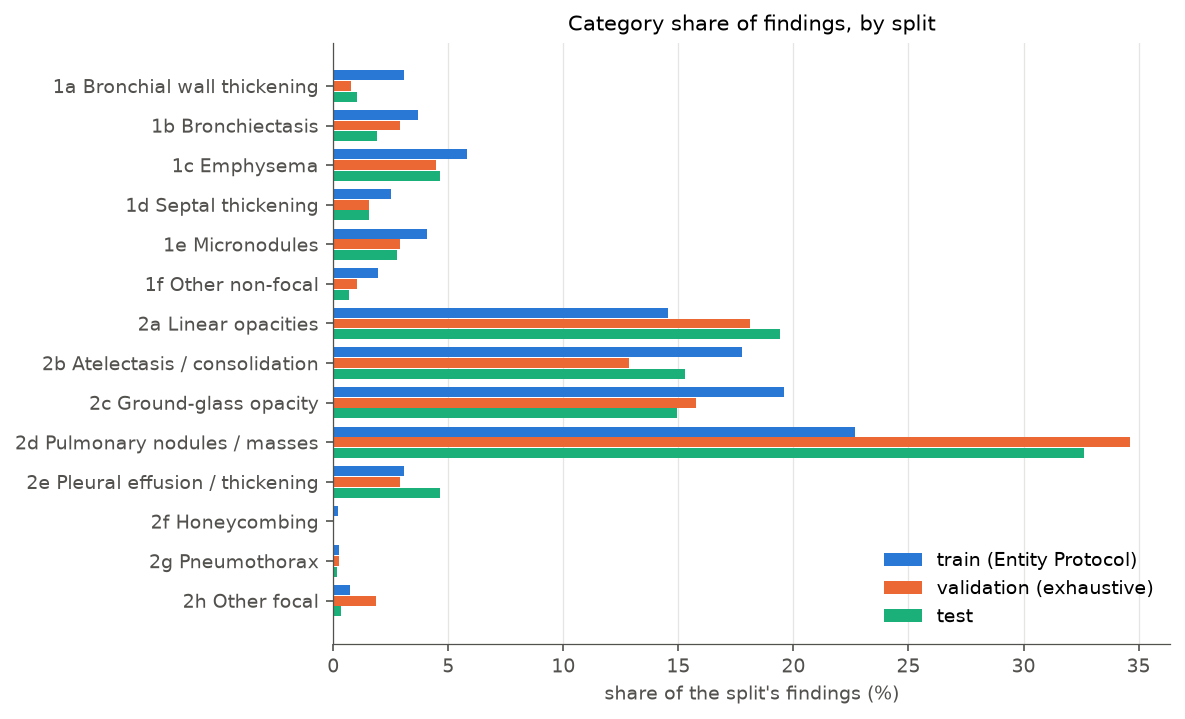
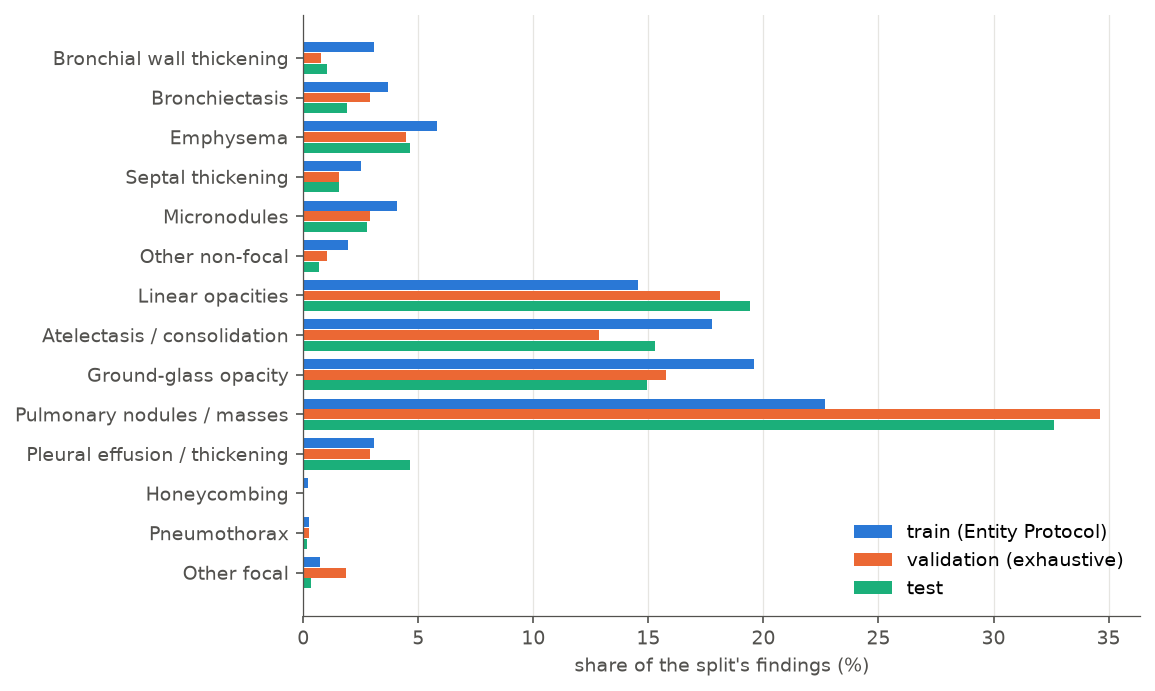
Figures: pathologies named, never coded; no titles baked into images
Report rule 1 (docs/report/RULES.md in the training repository): tables and figure
panels refer to pathologies by name; the category code is never shown alone. Report
rule 10: the picture carries only a legend and panel labels, explanations live in the
caption, so the figure-level titles are removed. Panel titles use a short-name map
(CAT_SHORT) so fourteen panels fit across a text-width figure.

diff --git a/profiling/analyze.py b/profiling/analyze.py
@@ -47,7 +47,11 @@ SPLIT_LABEL = {"train": "train (Entity Protocol)", "val": "validation (exhaustiv
 INK, INK2, GRID = "#0b0b0b", "#52514e", "#e6e5e1"
 BLUE_RAMP = ["#cde2fb", "#9ec5f4", "#6da7ec", "#3987e5", "#256abf", "#184f95", "#0d366b"]
 CATS = list(CATEGORY_MAP)                                           # 1a..2h, fixed order everywhere
-CAT_LABEL = {c: f"{c} {CATEGORY_MAP[c]}" for c in CATS}
+CAT_LABEL = {c: CATEGORY_MAP[c] for c in CATS}                    # report rule 1: pathologies by name, never by code
+CAT_SHORT = {"1a": "Bronchial wall thick.", "1b": "Bronchiectasis", "1c": "Emphysema", "1d": "Septal thickening",
+             "1e": "Micronodules", "1f": "Other non-focal", "2a": "Linear opacities", "2b": "Atelectasis / consol.",
+             "2c": "Ground-glass", "2d": "Nodules / masses", "2e": "Pleural effusion", "2f": "Honeycombing",
+             "2g": "Pneumothorax", "2h": "Other focal"}                # panel titles
 
 plt.rcParams.update({"font.family": "DejaVu Sans", "font.size": 9, "axes.edgecolor": INK2, "axes.linewidth": 0.6,
                      "axes.titlesize": 10, "axes.titleweight": "normal", "axes.labelcolor": INK2, "xtick.color": INK2,
@@ -138,7 +142,6 @@ def splits(t: dict) -> None:
     for i, sp in enumerate(("train", "val", "test")):
         hbar_by_category(ax, share_pct[sp], SPLIT_COLOR[sp], SPLIT_LABEL[sp], offset=(i - 1) * 0.27, height=0.25)
     ax.set_xlabel("share of the split's findings (%)"); ax.legend(loc="lower right"); ax.grid(axis="y", visible=False)
-    ax.set_title("Category share of findings, by split")
     save(fig, "fig_category_share")
 
     fig, ax = plt.subplots(figsize=(7.2, 5.2))
@@ -153,7 +156,6 @@ def splits(t: dict) -> None:
             ax.text(max(a, b) + 0.15, yi, f"{b / a:.1f}x" if a > 0 else "", va="center", fontsize=8, color=INK2)
     ax.set_yticks(y); ax.set_yticklabels([CAT_LABEL[c] for c in CATS]); ax.invert_yaxis(); ax.grid(axis="y", visible=False)
     ax.set_xlabel("mean annotated instances per finding (distinct instance labels in the mask)"); ax.legend(loc="lower right")
-    ax.set_title("The annotation-density gap: instances per finding, train vs validation" + (f" ({gap_all:.2f}x overall)" if np.isfinite(gap_all) else ""))
     save(fig, "fig_annotation_gap")
 
 
@@ -179,7 +181,6 @@ def sizes(t: dict) -> None:
     ax.set_ylim(len(CATS) + 1.2, 0.3)
     ticks = [0, 1, 2, 3, 4, 5, 6]; ax.set_xticks(ticks); ax.set_xticklabels(["1 mm³", "10", "100", "1 cm³", "10", "100", "1 L"])
     ax.set_xlabel("volume of one connected component (log scale); box = quartiles, whiskers = 1.5 IQR, outliers hidden")
-    ax.set_title("Lesion size per category, train and validation components")
     save(fig, "fig_sizes")
 
 
@@ -213,9 +214,8 @@ def spatial(t: dict) -> None:
             h, _, _ = np.histogram2d(d[xcol].clip(0, 1), d["lung_z"].clip(0, 1), bins=64, range=[[0, 1], [0, 1]])
             h = gaussian_filter(h, sigma=1.0); h = h / max(h.max(), 1e-9)
             ax.imshow(h.T, origin="lower", extent=[0, 1, 0, 1], cmap=cmap, vmin=0, vmax=1, aspect="auto", interpolation="bilinear")
-            ax.set_title(f"{k} ({len(d):,})", fontsize=8.5); ax.grid(False); ax.set_xticks([0, 0.5, 1]); ax.set_yticks([0, 0.5, 1])
+            ax.set_title(f"{CAT_SHORT[k]} ({len(d):,})", fontsize=8); ax.grid(False); ax.set_xticks([0, 0.5, 1]); ax.set_yticks([0, 0.5, 1])
         axes[1, 0].set_xlabel(xlabel, fontsize=8); axes[1, 0].set_ylabel("inferior ← z → superior", fontsize=8)
-        fig.suptitle(title, fontsize=9.5)
         save(fig, name, dpi=220)
 
     density_panels("lung_x", "left ← lung box x → right", "fig_spatial_coronal",
@@ -233,12 +233,11 @@ def spatial(t: dict) -> None:
                 h = gaussian_filter(h, sigma=1.0); h = h / max(h.max(), 1e-9)
                 cm = matplotlib.colors.LinearSegmentedColormap.from_list("s", ["#ffffff", color])
                 ax.imshow(h.T, origin="lower", extent=[0, 1, 0, 1], cmap=cm, vmin=0, vmax=1, aspect="auto", interpolation="bilinear")
-                ax.set_title(f"{k} {'train' if split == 'train' else 'val'} ({len(d):,})", fontsize=8.5, color=INK)
+                ax.set_title(f"{CAT_SHORT[k]}, {'train' if split == 'train' else 'val'} ({len(d):,})", fontsize=7.5, color=INK)
                 ax.grid(False); ax.set_xticks([0, 0.5, 1]); ax.set_yticks([0, 0.5, 1])
     axes[3, 0].set_xlabel("left ← lung box x → right", fontsize=8)
     for r in range(4):
         axes[r, 0].set_ylabel("inferior ← z → superior", fontsize=7.5)
-    fig.suptitle("Coronal density of annotated components: training (Entity Protocol, blue) vs validation (exhaustive, orange), per category, per-panel scale", fontsize=9.5)
     save(fig, "fig_spatial_train_vs_val", dpi=220)
     density_panels("lung_y", "posterior ← lung box y → anterior", "fig_spatial_sagittal",
                    "Sagittal density of train components in lung-box coordinates (per-panel scale)")
@@ -264,7 +263,6 @@ def hu(t: dict) -> None:
     ax.set_yticks(y); ax.set_yticklabels([CAT_LABEL[k] for k in CATS]); ax.invert_yaxis(); ax.grid(axis="y", visible=False)
     ax.set_ylim(len(CATS) + 0.3, -0.7)
     ax.set_xlabel("median HU (median over findings of each finding's median)"); ax.legend(loc="upper right")
-    ax.set_title("Radiodensity: inside the annotation vs its surroundings, per category")
     save(fig, "fig_hu")
 
 
@@ -298,7 +296,6 @@ def text(t: dict) -> None:
             ax.hist(v, bins=bins, density=True, histtype="step", linewidth=1.6, color=SPLIT_COLOR[sp], label=f"{SPLIT_LABEL[sp]}, median {v.median():.0f}")
     ax.axvline(128, color=INK2, linewidth=0.8); ax.text(128, ax.get_ylim()[1] * 0.5, " encoder limit (128)", fontsize=7.5, color=INK2)
     ax.set_xlabel("tokens of the instruction prompt (Qwen3-Embedding tokenizer)"); ax.set_ylabel("density"); ax.legend(loc="upper right")
-    ax.set_title("Prompt length by split: no prompt reaches the 128-token limit")
     save(fig, "fig_text_tokens")
 
 
@@ -321,7 +318,7 @@ def scans(t: dict) -> None:
             if len(v):
                 ax.hist(v, bins=bins, density=True, histtype="step", linewidth=1.4, color=SPLIT_COLOR[sp], label=sp)
         ax.set_xlabel(lab); ax.set_yticks([])
-    axes[0].legend(loc="upper right"); fig.suptitle("Image geometry by split (density)", fontsize=9.5)
+    axes[0].legend(loc="upper right")
     save(fig, "fig_scans")
 
 
@@ -335,14 +332,13 @@ def cooccurrence(t: dict) -> None:
     table(cond.reset_index().rename(columns={"category": "row"}), "cooccurrence_conditional")
     fig, ax = plt.subplots(figsize=(7.4, 6.4))
     im = ax.imshow(cond.values, cmap=matplotlib.colors.LinearSegmentedColormap.from_list("b", ["#ffffff"] + BLUE_RAMP), vmin=0, vmax=1)
-    ax.set_xticks(range(len(CATS))); ax.set_xticklabels(CATS); ax.set_yticks(range(len(CATS))); ax.set_yticklabels([CAT_LABEL[k] for k in CATS]); ax.grid(False)
+    ax.set_xticks(range(len(CATS))); ax.set_xticklabels([CAT_SHORT[k] for k in CATS], rotation=45, ha="right", fontsize=7.5); ax.set_yticks(range(len(CATS))); ax.set_yticklabels([CAT_LABEL[k] for k in CATS]); ax.grid(False)
     for i in range(len(CATS)):
         for j in range(len(CATS)):
             v = cond.values[i, j]
             if i != j and v >= 0.15:
                 ax.text(j, i, f"{v:.2f}", ha="center", va="center", fontsize=6.5, color="#ffffff" if v > 0.6 else INK)
     fig.colorbar(im, ax=ax, fraction=0.035, pad=0.02, label="P(column present | row present), scan level")
-    ax.set_title(f"Category co-occurrence within a scan (all splits, {pres.shape[0]:,} scans); labels where ≥ 0.15")
     save(fig, "fig_cooccurrence")
     pat = s.assign(patient=patient_id(s["id"])).groupby("split")["patient"].apply(set).reindex(["train", "val", "test"]).apply(lambda v: v if isinstance(v, set) else set())
     overlap = pd.DataFrame([{"pair": f"{a}-{b}", "shared_patients": len(pat[a] & pat[b])} for a, b in (("train", "val"), ("train", "test"), ("val", "test"))])
